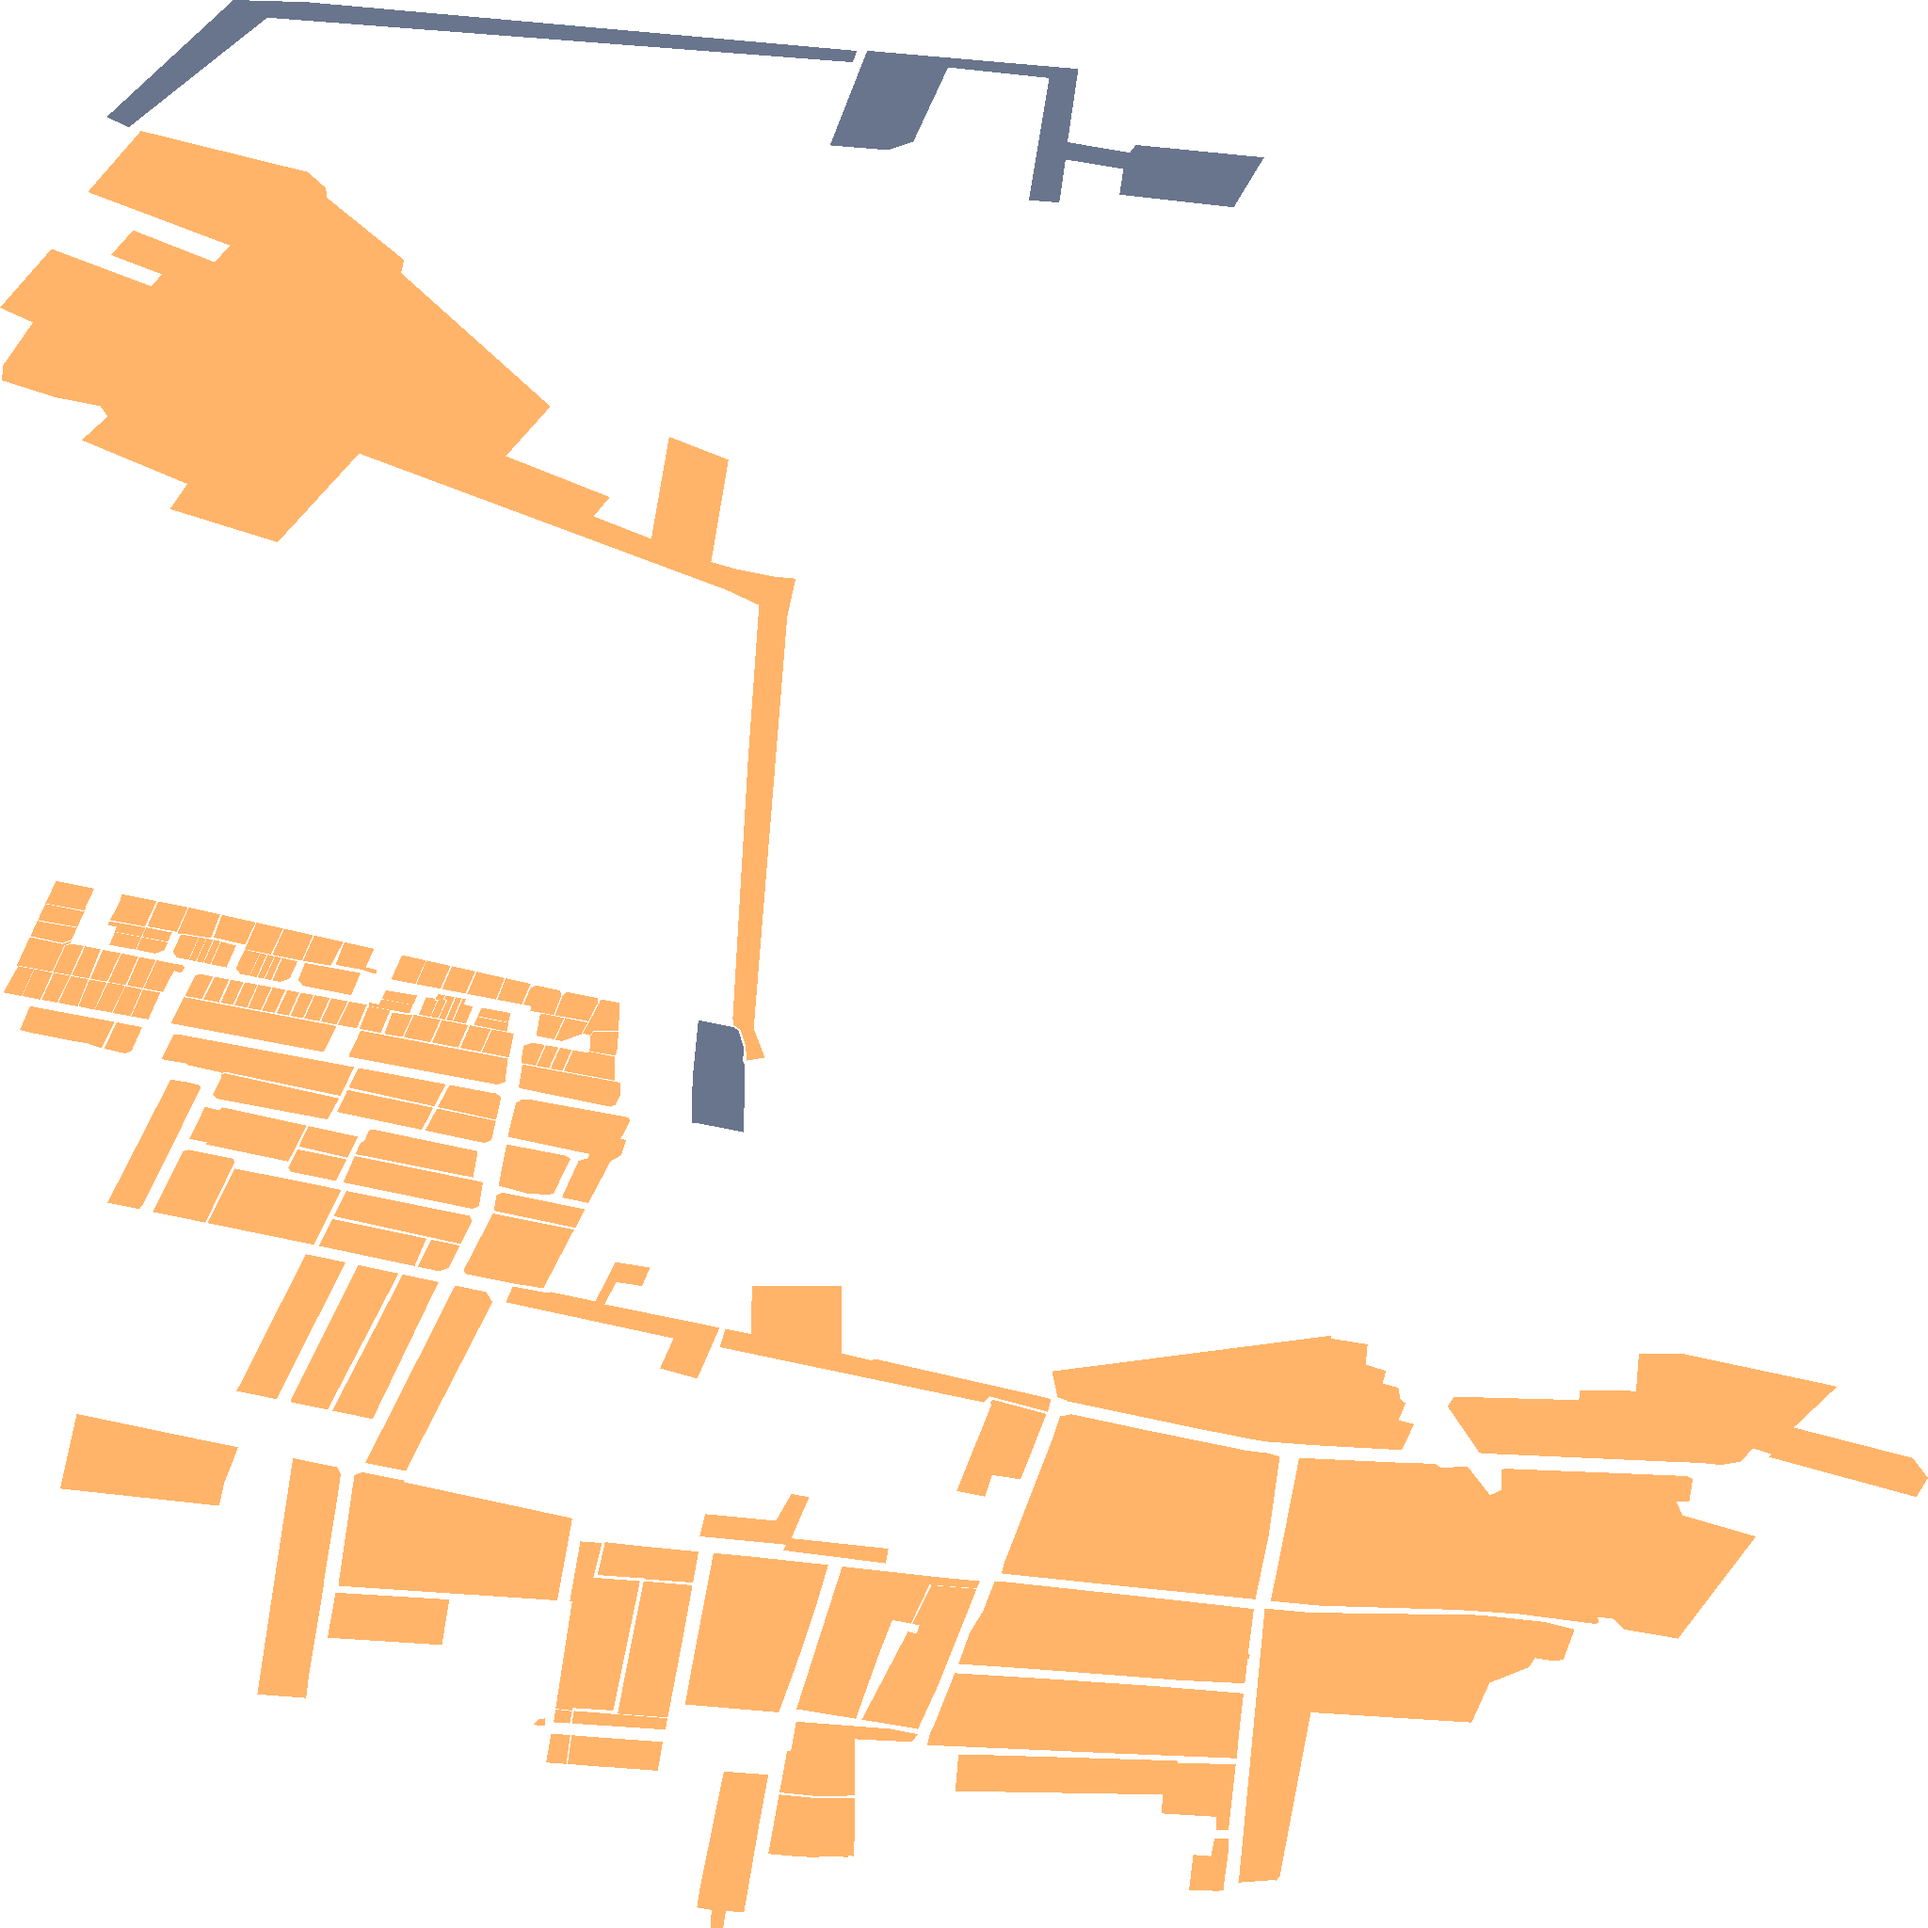
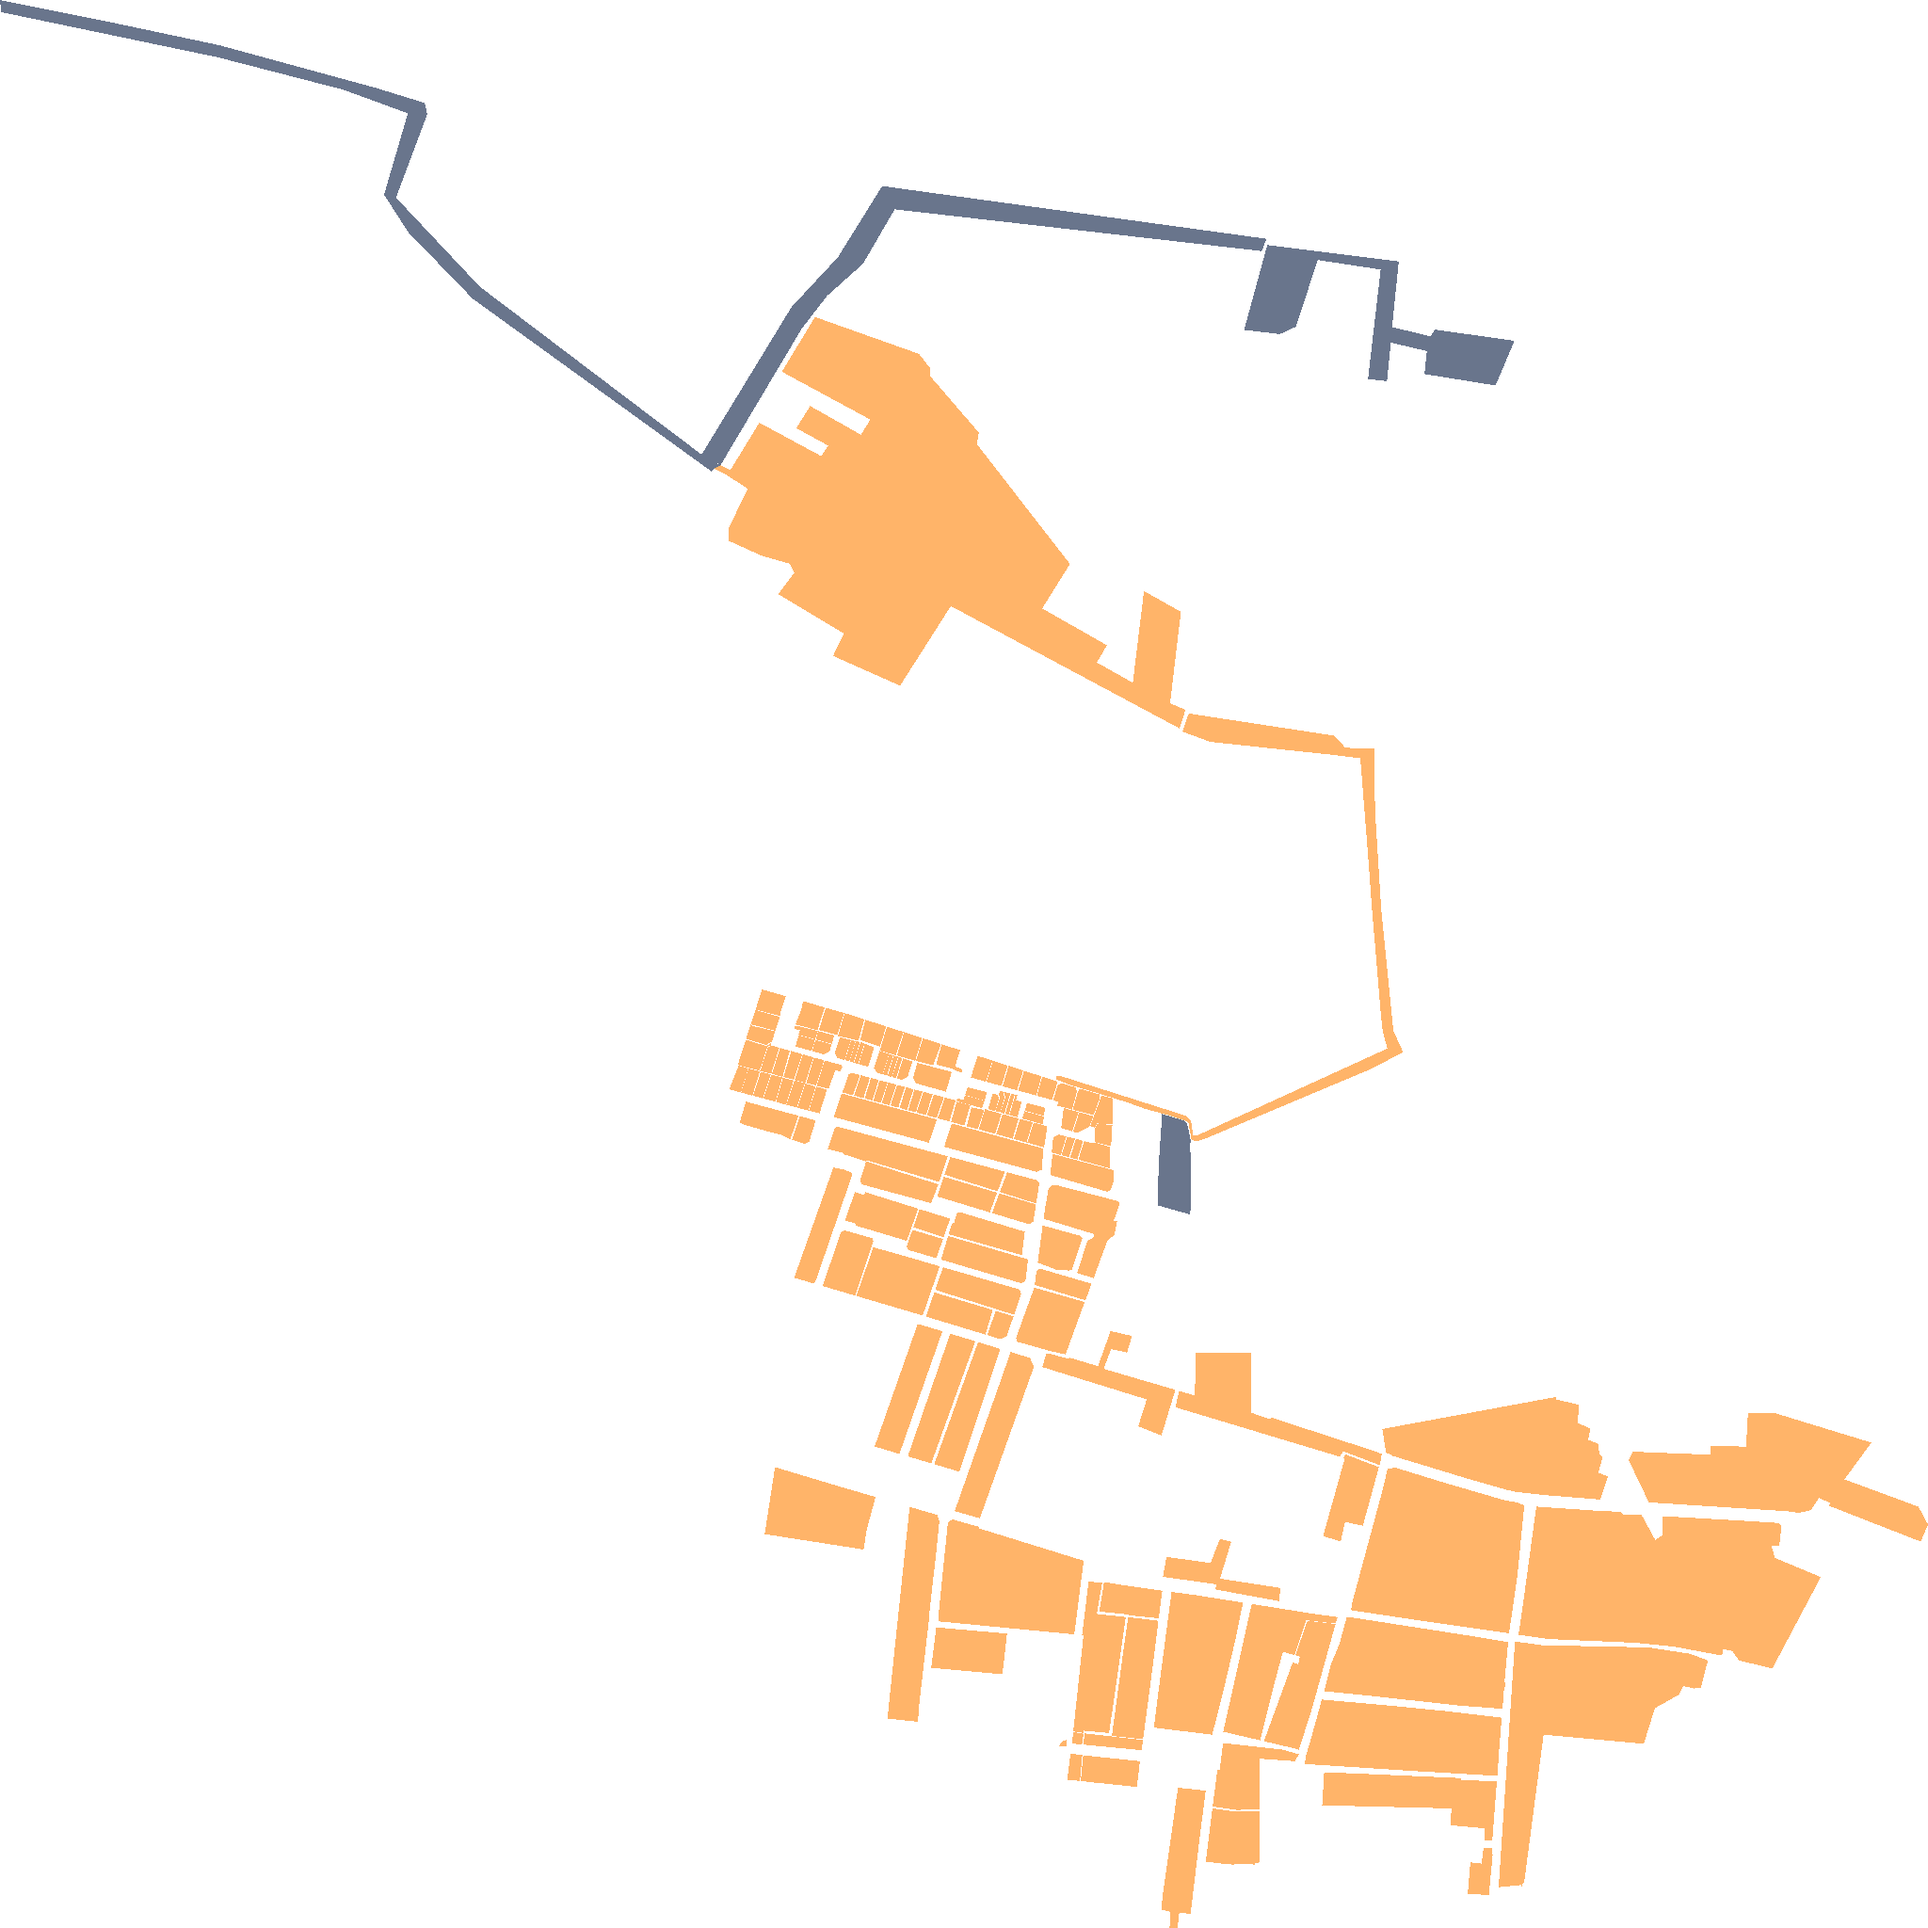
Karte sp_2132

Changed region(s): [[0.0, 0.0, 1.0, 1.0], [0.625, 0.375, 0.75, 0.5625]]

diff --git a/sp_2132.html b/sp_2132.html
@@ -115,7 +115,7 @@
         <div><span style="display:inline-block;width:20px; height:10px; background:#FFC17D; margin-right:5px;"></span>Ausbauphase 3: Gefördertes Ausbaugebiet </div>
     </div>
     <script>
-    const bounds = [[49.392462881, 8.582561185], [49.411053687, 8.600760854]];
+    const bounds = [[49.392462881, 8.571539977], [49.413200531, 8.600760854]];
     const map = L.map('map', {zoomControl: false});
       map.fitBounds(bounds, {padding: [100, 100]});
        const maptiler = L.tileLayer('https://api.maptiler.com/maps/basic/{z}/{x}/{y}.png?key=hP74ooTG3ciBab5RShCg',
